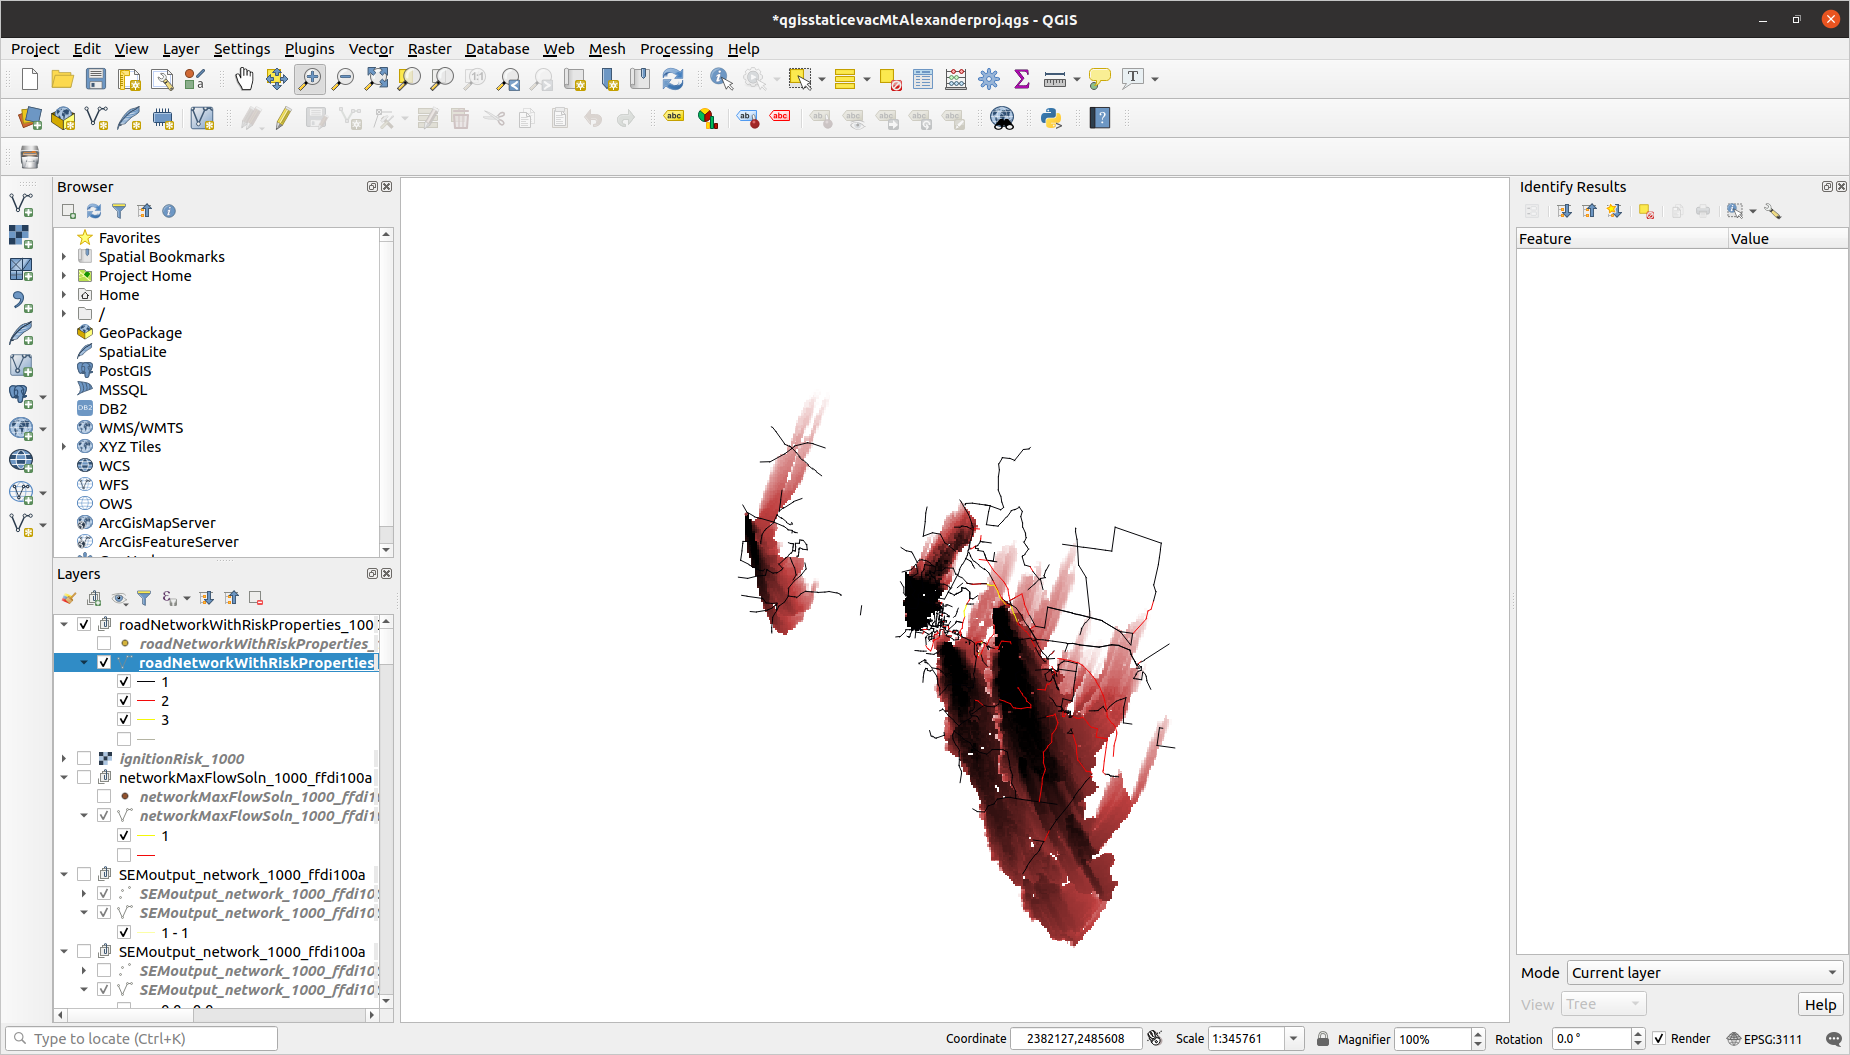
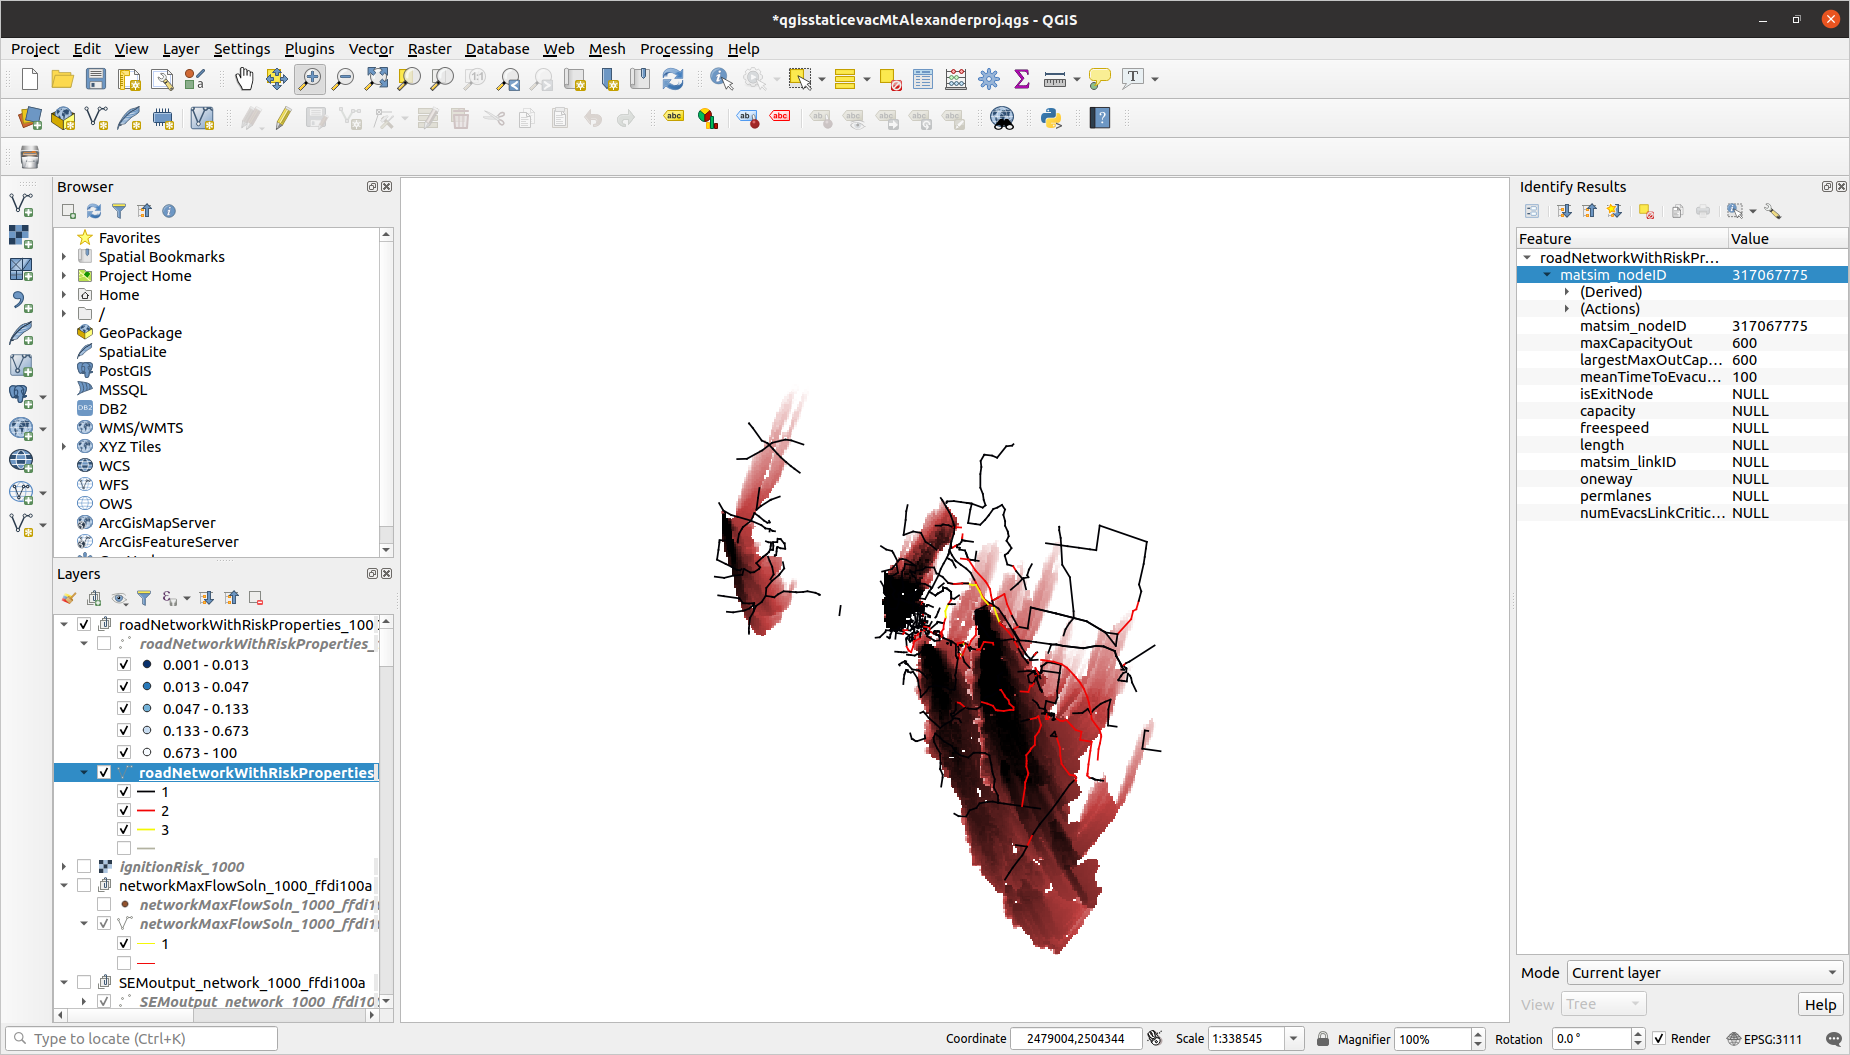
Improved riskMaps_fourFires_MtAlex.md.

diff --git a/riskMaps_fourFires_MtAlex.md b/riskMaps_fourFires_MtAlex.md
@@ -9,7 +9,7 @@
 
 # The maximum-flow method run on fire ffdi100a (the south-east fire)
 
-### Inside the fire-perimeter (road-links coloured by capacity):
+### Inside the fire-perimeter (road-links coloured by capacity, e.g. Calder Freeway in yellow, Midland Highway in red):
 ![Diagram: inside perimeter of fire ffdi100a](insideFirePerimeter-ffdi100a-1000.png)
 
 ### Non-zero population inside the fire:
@@ -17,10 +17,10 @@
 
 ## Each population raster-cell with non-zero population and inside the fire is assigned a population node (injection-node), i.e. the network node having largest maximum out-capacity
 
-### Population nodes coloured by largest maximum out-capacity:
+### Population nodes coloured by largest maximum out-capacity (yellow high, red low):
 ![Diagram: network vector-layer with population nodes coloured by largest maximum out-capacity](linksColouredByCapacity_populationNodesColouredByLargestMaxOutCapacity-1000-fourfires.png)
 
-### "Safe" buffer-area surrounding fire:
+### "Safe" buffer-area surrounding fire, between one and two kilometres from fire-perimeter:
 ![Diagram: "safe" buffer-area surrounding fire](safeAreaSurroundingFire-1000-fourfires.png)
 
 ### Define exit-nodes as network-nodes lying in the buffer-area (thickness of a road-link indicates capacity):
@@ -28,7 +28,7 @@
 
 
 ### Maximum-flow solution (thickness of a green link indicates flow; population nodes coloured by evacuation-time, defined to be population/inflow):
-Problem: each white node has zero inflow in the maximum-flow solution, so its evacuation-time is infinite. This arises from there being effectively unlimited supply of flow at each injection-node (because even a tiny population could enter the network with a flow of 4000 vehicles per hour), so that the inflow at one node "floods" a road's (even highway's) capacity; this follows from the max-flow model's assumption that each inflow persists for all time. This problem is reduced or goes away altogether, depending on population sizes, if we set the inflow at each node to a small multiple of its population, but that might be too unrealistic.
+Problem: each white node has zero inflow in the maximum-flow solution, so its evacuation-time is infinite. This arises from there being effectively unlimited supply of flow at each injection-node (because even a tiny population could enter the network with a flow of 4000 vehicles per hour), so that the inflow at one node can "flood" a road's (even freeway's) capacity and prevent other nodes' populations from flowing onto that road; this follows from the max-flow model's assumption that each inflow persists for all time. The problem is reduced or goes away altogether, depending on population sizes, if we set the inflow at each node to a small multiple of its population, but that might be too unrealistic.
 
 One approach is to estimate the time it would take for the "flooding" traffic (i.e. from nodes with positive inflows) to exit the network, and then run the max-flow method again with those nodes' inflows now set to zero; this would be repeated until no population-node had an inflow of zero in the max-flow solution. The sum of estimated exit-times would then be an upper bound on the time for all nodes' populations to have reached the exit-nodes.
 
@@ -39,13 +39,13 @@ The literature has variations on the maximum-flow problem, e.g. 'Maximum-Flow Ev
 
 # The three types of evacuation risk, measured across all four fires
 
-## Community risk per population node (mean time taken to evacuate node, over all fires that contain it within their perimeters) - a white node has zero inflow in the maximum-flow solution for at least one fire, so its evacuation-time is infinite:
+## Community risk per population node (mean of the node's evacuation-times, i.e. population/inflow, over all fires that contain the node within their perimeters) - a white node has zero inflow in the maximum-flow solution for at least one fire, so its mean evacuation-time is infinite:
 ![Diagram: community risk per population node](communityRiskPerPopulationNode-1000-fourfires.png)
 
 
-## Ignition risk per fire (number of population nodes plus number of critical links within fire-perimeter) - where fires overlap, the ignition risks are added:
+## Ignition risk per fire (number of population nodes plus number of critical links within fire-perimeter) - where fires overlap, the ignition risks are added (should we take the maximum instead?):
 ![Diagram: Ignition risk per fire](ignitionRiskPerFire-1000-fourfires.png)
 
 
-## Point-of-impact risk per link (number of evacuation-flows the link is critical to, over all fires):
+## Point-of-impact risk per link (number of evacuation-flows the link is critical to, over all fires - black 1, red 2, yellow 3):
 ![Diagram: Point-of-impact risk per link](pointOfImpactRiskPerLink-1000-fourfires.png)
